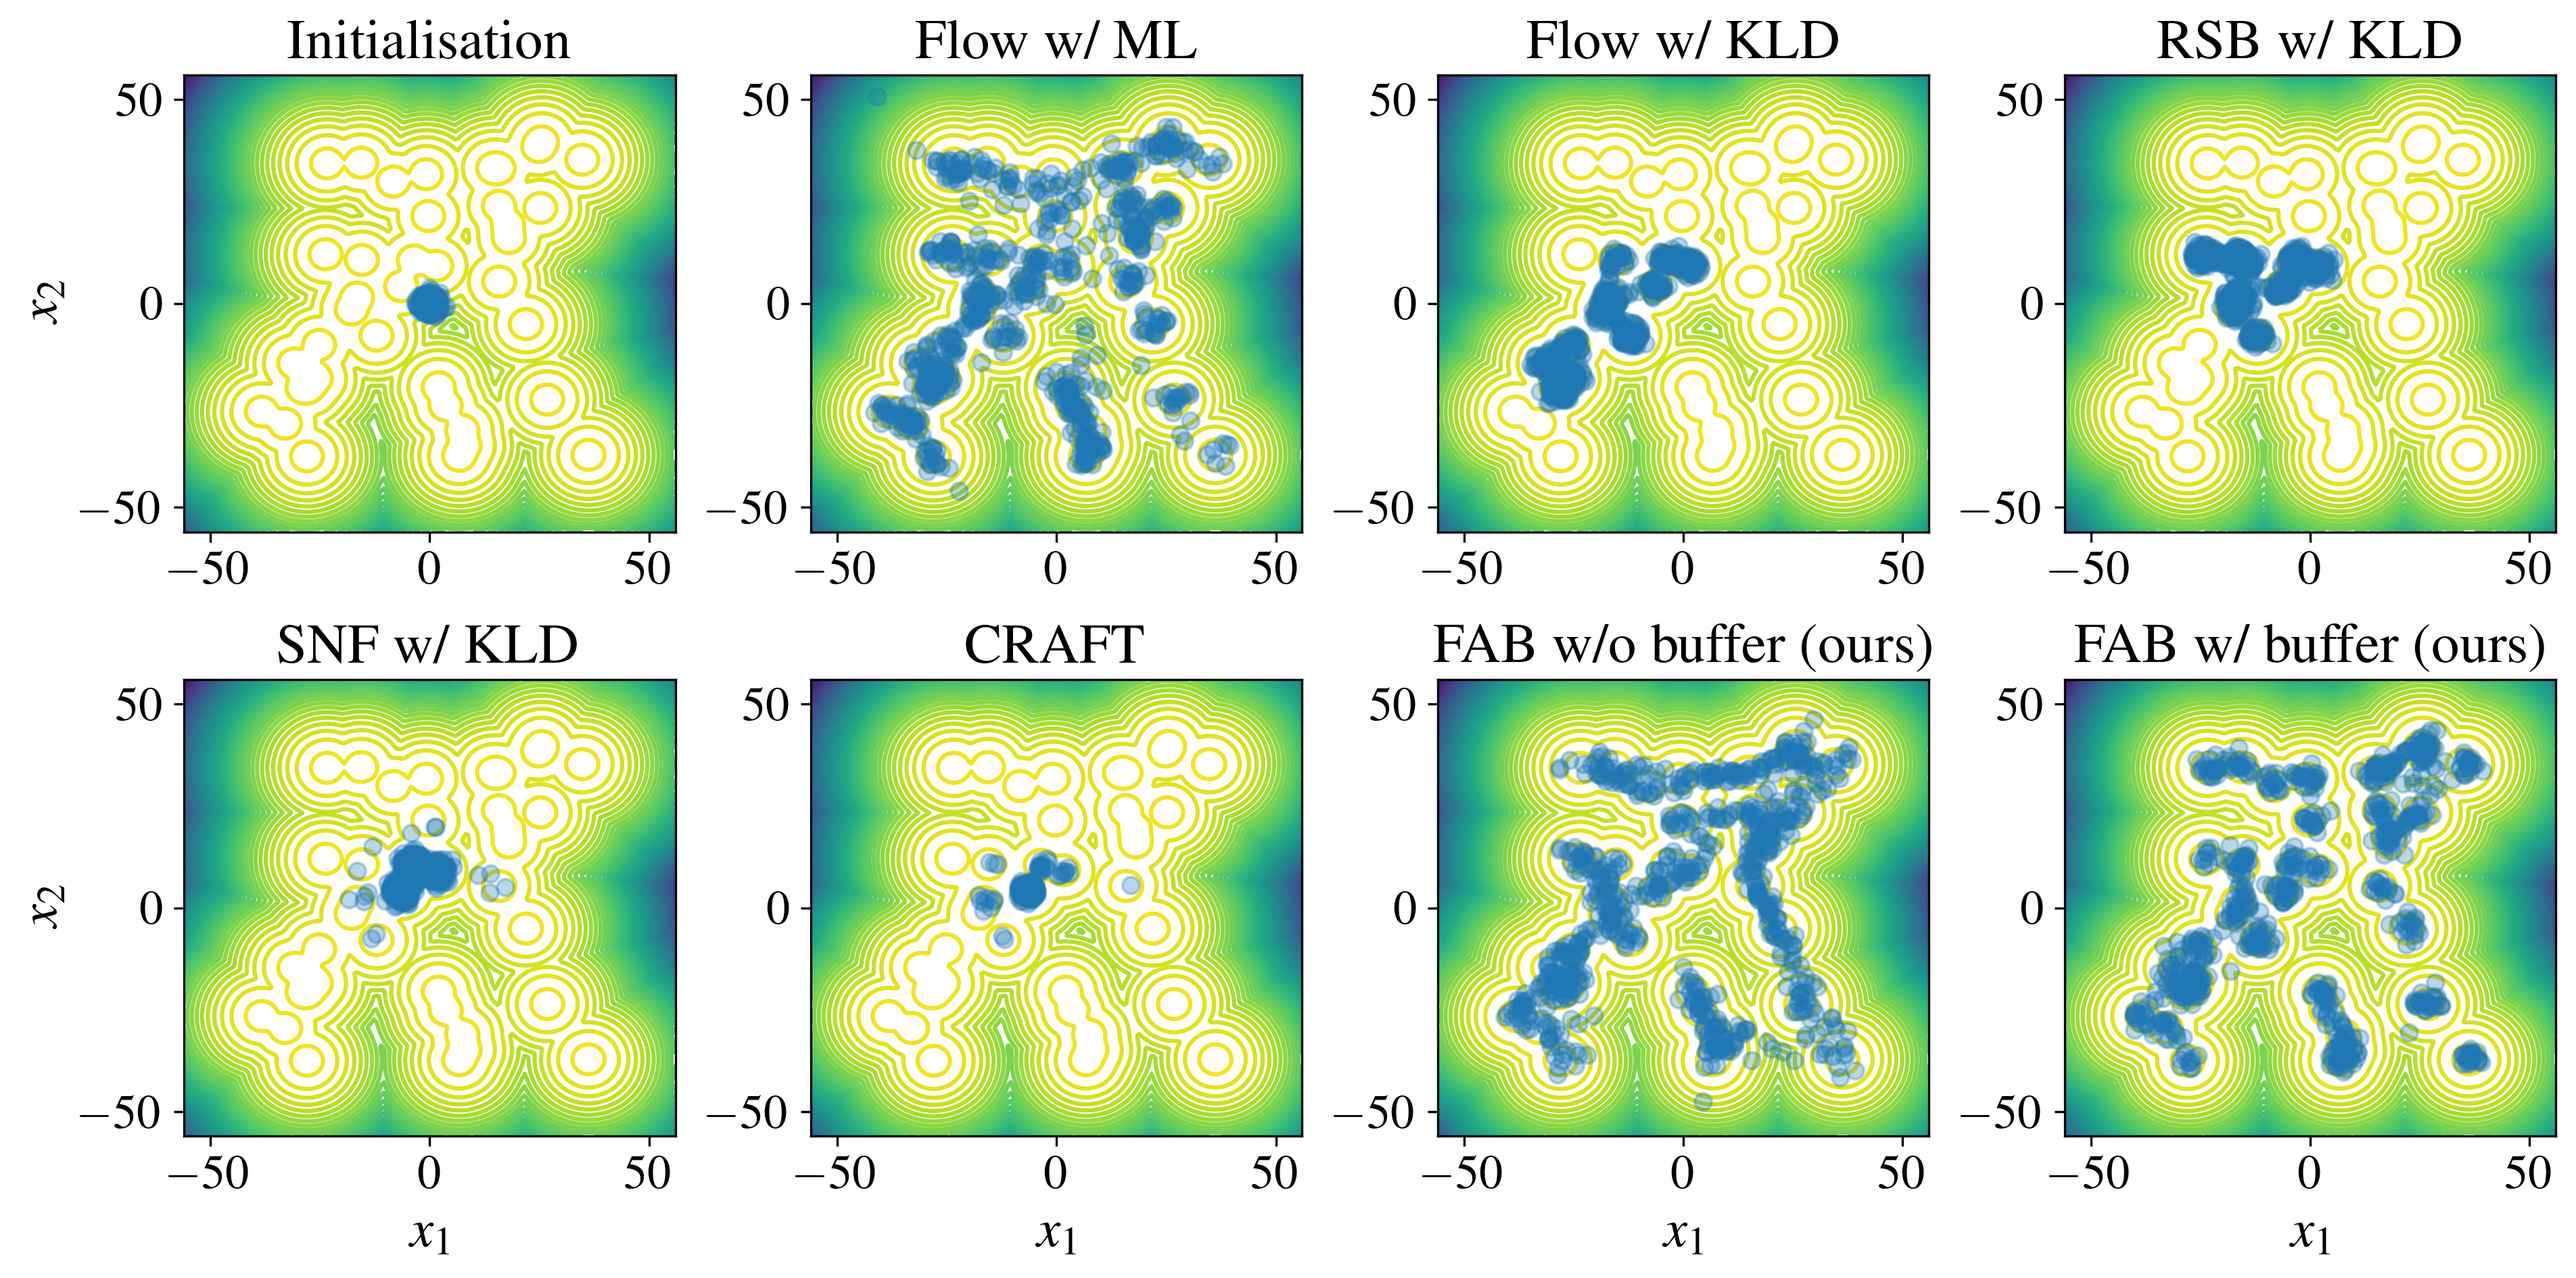
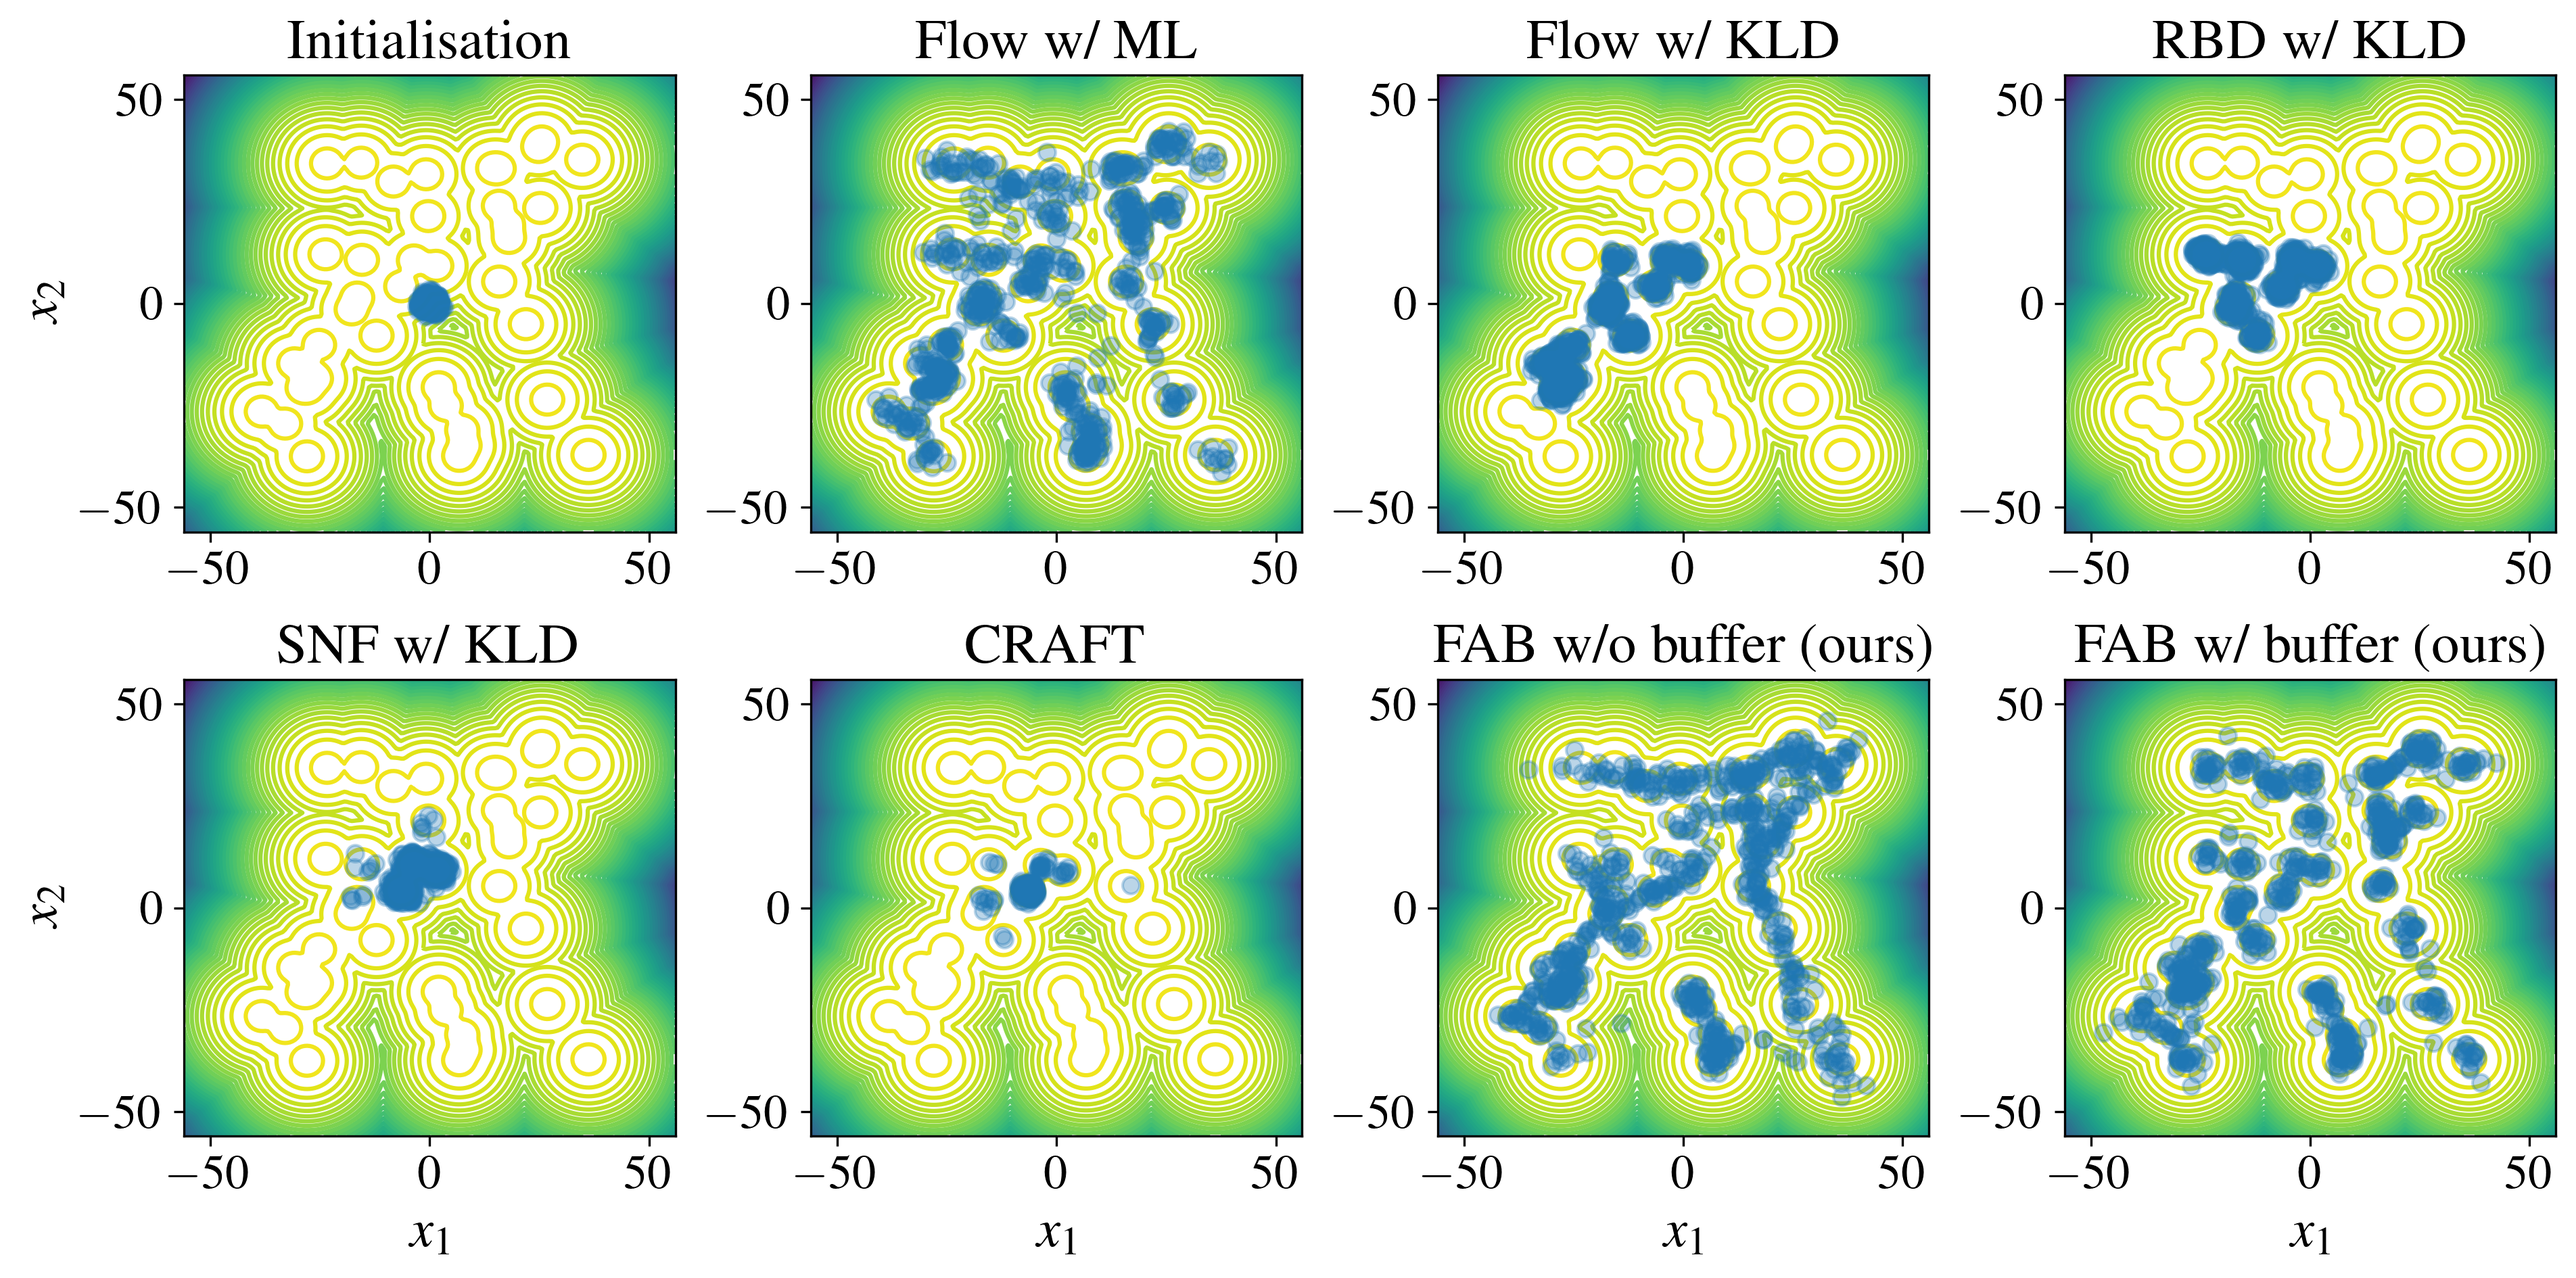
feat: small changes

diff --git a/experiments/gmm/results_vis.py b/experiments/gmm/results_vis.py
@@ -45,7 +45,7 @@ def plot_result(cfg: DictConfig, ax: plt.axes, path_to_model: Optional[str] = No
 @hydra.main(config_path="../config", config_name="gmm.yaml")
 def run(cfg: DictConfig):
     seed = 0
-    no_init = False
+    no_init = True
     if no_init:
         model_names = ["target_kld", "flow_nis",
                        "flow_kld", "rsb", "snf", "craft", "fab_no_buffer", "fab_buffer"]
@@ -59,7 +59,7 @@ def run(cfg: DictConfig):
                        "flow_kld", "rsb", "snf", "craft",
                        "fab_no_buffer", "fab_buffer"]
         titles = ["Initialisation", "Flow w/ ML",
-                  "Flow w/ KLD", "RSB w/ KLD",
+                  "Flow w/ KLD", "RBD w/ KLD",
                   "SNF w/ KLD",
                   "CRAFT",
                   "FAB w/o buffer (ours)",
@@ -120,9 +120,10 @@ def run(cfg: DictConfig):
 
     plt.tight_layout()
     if no_init:
-        plt.savefig(f"{PATH}/plots/MoG_appendix.png", bbox_inches="tight")
+        fig.savefig(f"{PATH}/plots/MoG_appendix.png", bbox_inches="tight")
     else:
-        plt.savefig(f"{PATH}/plots/MoG.png", bbox_inches="tight")
+        fig.savefig(f"{PATH}/plots/MoG.png", bbox_inches="tight")
+    # fig.savefig(f"{PATH}/plots/MoG.png", bbox_inches="tight")
     plt.show()
 
 

diff --git a/experiments/many_well/evaluation.py b/experiments/many_well/evaluation.py
@@ -27,8 +27,9 @@ def evaluate_many_well(cfg: DictConfig, path_to_model: str, target, num_samples=
 def main(cfg: DictConfig):
     """Evaluate each of the models, assume model checkpoints are saved as {model_name}_seed{i}.pt,
     where the model names for each method are `model_names` and `seeds` below."""
-
-    model_names = ["fab_buffer", "fab_no_buffer", "flow_kld", "flow_nis", "snf"]
+    # model_names = ["target_kld", "flow_nis", "flow_kld", "rbd", "snf_hmc", "fab_no_buffer",
+    #                "fab_buffer"]
+    model_names = ["rbd", "snf_hmc"]
     seeds = [1, 2, 3]
     num_samples = int(5e4)
 
@@ -42,7 +43,7 @@ def main(cfg: DictConfig):
             cfg.flow.use_snf = True
         else:
             cfg.flow.use_snf = False
-        if model_name and model_name[0:3] == "rsb":
+        if model_name and model_name[0:3] == "rbd":
             cfg.flow.resampled_base = True
         else:
             cfg.flow.resampled_base = False
@@ -70,7 +71,7 @@ def main(cfg: DictConfig):
     print("overall results")
     print(results[["model_name", "seed"] + keys])
 
-FILENAME_EVAL_INFO = "/experiments/many_well/many_well_results.csv"
+FILENAME_EVAL_INFO = "/experiments/many_well/many_well_results_iclr.csv"
 
 
 if __name__ == '__main__':

diff --git a/experiments/many_well/results_vis_appendix.py b/experiments/many_well/results_vis_appendix.py
@@ -14,7 +14,6 @@ PATH = os.getcwd()
 
 
 
-
 @hydra.main(config_path="../config", config_name="many_well.yaml")
 def run(cfg: DictConfig):
     mpl.rcParams['figure.dpi'] = 300
